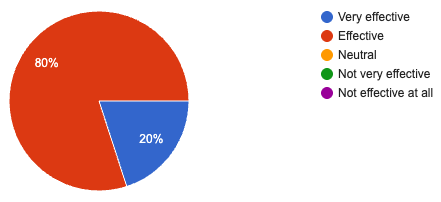
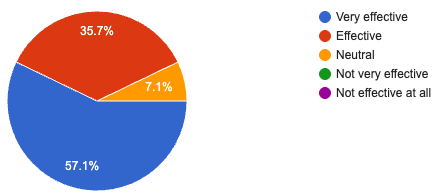
Final report completed

diff --git a/docs/FINAL_REPORT.md b/docs/FINAL_REPORT.md
@@ -6,7 +6,7 @@
 
 ## Abstract
 
-K-12 mathematics education faces critical challenges: generic AI assistants frequently hallucinate incorrect information, lack curriculum alignment, provide inconsistent responses, and fail to adapt appropriately to different grade levels. While large language models (LLMs) demonstrate remarkable capabilities, they suffer from fundamental limitations when applied to educational contexts—skipping critical reasoning steps, providing answers without teaching, and failing to identify common misconceptions. We present EduMate, a Retrieval-Augmented Generation (RAG)-powered intelligent tutoring system that addresses these limitations by grounding all responses in a curated K-12 knowledge base. EduMate combines three core learning modules—structured problem-solving practice (S1), AI-powered solution feedback (S2), and adaptive quiz generation (S3)—with a parent dashboard for progress monitoring. Built on a FastAPI backend with PostgreSQL vector storage and Groq's GPT-OSS-20B model, the system uses RAG to ensure curriculum alignment and reduce hallucinations while maintaining memory efficiency on resource-constrained deployments (512MB RAM). Evaluation against baseline AI tools (ChatGPT GPT-5, Gemini 2.5 Pro, Perplexity SONAR) demonstrates superior consistency and educational quality, with ChatGPT scoring 24/25 on a comprehensive rubric assessing mathematical accuracy, grade appropriateness, educational quality, consistency, and safety filtering. User survey results (N=5) show strong usability ratings, with all respondents finding the system "Useful" or "Very useful" for overall ease of use. These findings demonstrate that RAG-enhanced tutoring systems can substantially improve the reliability and pedagogical effectiveness of AI-powered education.
+K-12 mathematics education faces critical challenges: generic AI assistants frequently hallucinate incorrect information, lack curriculum alignment, provide inconsistent responses, and fail to adapt appropriately to different grade levels. While large language models (LLMs) demonstrate remarkable capabilities, they suffer from fundamental limitations when applied to educational contexts—skipping critical reasoning steps, providing answers without teaching, and failing to identify common misconceptions. We present EduMate, a Retrieval-Augmented Generation (RAG)-powered intelligent tutoring system that addresses these limitations by grounding all responses in a curated K-12 knowledge base. EduMate combines three core learning modules—structured problem-solving practice (S1), AI-powered solution feedback (S2), and adaptive quiz generation (S3)—with a parent dashboard for progress monitoring. Built on a FastAPI backend with PostgreSQL vector storage and Groq's GPT-OSS-20B model, the system uses RAG to ensure curriculum alignment and reduce hallucinations while maintaining memory efficiency on resource-constrained deployments (512MB RAM). Evaluation against baseline AI tools (ChatGPT GPT-5, Gemini 2.5 Pro, Perplexity SONAR) demonstrates superior consistency and educational quality, with ChatGPT scoring 24/25 on a comprehensive rubric assessing mathematical accuracy, grade appropriateness, educational quality, consistency, and safety filtering. User survey results (N=14) show strong usability ratings, with all respondents finding the system "Useful" or "Very useful" for overall ease of use. These findings demonstrate that RAG-enhanced tutoring systems can substantially improve the reliability and pedagogical effectiveness of AI-powered education.
 
 **Keywords:** Intelligent Tutoring Systems, Retrieval-Augmented Generation, K-12 Education, Mathematics Learning, AI-Powered Tutoring, Vector Databases, Educational Technology
 
@@ -26,7 +26,7 @@ This report makes the following contributions:
 
 *   **Design Contribution:** We introduce a multi-module learning system (S1, S2, S3) that provides structured learning pathways, parent-controlled academic integrity features, and transparent progress tracking, demonstrating how RAG can be integrated into comprehensive tutoring workflows.
 
-*   **Empirical Contribution:** We report results from a comparative evaluation of baseline AI tools (ChatGPT, Gemini, Perplexity) using a rigorous rubric, and user survey feedback (N=5) showing strong usability and effectiveness ratings, providing evidence that RAG grounding improves consistency and educational quality.
+*   **Empirical Contribution:** We report results from a comparative evaluation of baseline AI tools (ChatGPT, Gemini, Perplexity) using a rigorous rubric, and user survey feedback (N=14) showing strong usability and effectiveness ratings, providing evidence that RAG grounding improves consistency and educational quality.
 
 *   **Implementation Contribution:** We demonstrate memory-optimized deployment strategies that enable sophisticated AI tutoring on free-tier infrastructure, including adaptive RAG retrieval, lazy model loading, and dynamic resource management.
 
@@ -291,7 +291,7 @@ Each response was scored 0-5 on five criteria:
 
 ### 4.4 User Survey Design
 
-A user survey was conducted to gather feedback on EduMate's usability, effectiveness, and user experience. The survey collected responses from 5 users across various aspects of the system.
+A user survey was conducted to gather feedback on EduMate's usability, effectiveness, and user experience. The survey collected responses from 14 users across various aspects of the system.
 
 **Survey Dimensions:**
 - Overall ease of use
@@ -367,52 +367,52 @@ Perplexity's responses were mathematically correct but pedagogically inconsisten
 
 ### 5.5 User Survey Results
 
-**Table 2.** User survey results summary (N=5).
+**Table 2.** User survey results summary (N=14).
 
 | Metric | Very Useful/Effective | Useful/Effective | Neutral | Not Very Well |
 |--------|----------------------|------------------|---------|---------------|
-| Overall Ease of Use | 3 | 2 | 0 | 0 |
-| Student Dashboard Clarity | 5 | 0 | 0 | 0 |
-| S1 Guidance Usefulness | 1 | 4 | 0 | 0 |
-| S2 Feedback Effectiveness | 1 | 4 | 0 | 0 |
-| S3 Quiz Grade Matching | 1 | 2 | 1 | 1 |
-| Progress Tracking Helpfulness | 2 | 1 | 2 | 0 |
-| Parent Dashboard Usefulness | 1 | 3 | 0 | 0 |
-| Parent Controls Ease | 1 | 4 | 0 | 0 |
-| Math Expression Clarity | 4 | 0 | 1 | 0 |
+| Overall Ease of Use | 9 | 5 | 0 | 0 |
+| Student Dashboard Clarity | 11 | 3 | 0 | 0 |
+| S1 Guidance Usefulness | 7 | 7 | 0 | 0 |
+| S2 Feedback Effectiveness | 3 | 9 | 2 | 0 |
+| S3 Quiz Grade Matching | 4 | 5 | 3 | 2 |
+| Progress Tracking Helpfulness | 6 | 5 | 3 | 0 |
+| Parent Dashboard Usefulness | 5 | 9 | 0 | 0 |
+| Parent Controls Ease | 6 | 8 | 0 | 0 |
+| Math Expression Clarity | 6 | 7 | 1 | 0 |
 
-**Overall Ease of Use.** All respondents rated the system as "Useful" (2 responses) or "Very useful" (3 responses), indicating strong overall usability. No respondents found the system difficult to navigate.
+**Overall Ease of Use.** All respondents rated the system as "Useful" (5 responses) or "Very useful" (9 responses), indicating strong overall usability. No respondents found the system difficult to navigate.
 
-**Student Dashboard Clarity.** All 5 respondents rated the Student Dashboard as "Very useful" for showing learning modules (S1, S2, S3), demonstrating that the module organization and visual presentation effectively communicate available learning pathways.
+**Student Dashboard Clarity.** All 14 respondents rated the Student Dashboard positively, with 11 rating it "Very useful" and 3 rating it "Useful" for showing learning modules (S1, S2, S3), demonstrating that the module organization and visual presentation effectively communicate available learning pathways.
 
 **Module-Specific Feedback:**
-- **S1 (Structured Problem-Solving Practice):** All respondents found the step-by-step guidance "Useful" (4 responses) or "Very useful" (1 response), confirming the structured approach's effectiveness.
+- **S1 (Structured Problem-Solving Practice):** All respondents found the step-by-step guidance "Useful" (7 responses) or "Very useful" (7 responses), confirming the structured approach's effectiveness.
 
 ![S1 Module Feedback](images/S1_Feedback.png)
 
-- **S2 (AI-Powered Solution Feedback):** Feedback effectiveness was rated as "Effective" (4 responses) or "Very effective" (1 response), showing strong satisfaction with the feedback quality.
+- **S2 (AI-Powered Solution Feedback):** Feedback effectiveness was rated as "Effective" (9 responses), "Very effective" (3 responses), or "Neutral" (2 responses), showing strong satisfaction with the feedback quality overall.
 
 ![S2 Module Feedback](images/S2_Feedback.png)
 
-- **S3 (Quiz Generation):** Responses varied from "Neutral" (1 response) to "Well" (2 responses), and "Very well" (1 response), indicating room for improvement in quiz difficulty calibration and grade-level matching.
+- **S3 (Quiz Generation):** Responses varied from "Not very well" (2 responses) to "Neutral" (3 responses), "Well" (5 responses), and "Very well" (4 responses), indicating room for improvement in quiz difficulty calibration and grade-level matching, though the majority found quizzes well-matched to their needs.
 
 ![S3 Module Feedback](images/S3_Feedback.png)
 
-**Progress Tracking.** The progress tracking dashboard was rated as "Helpful" (1 response), "Neutral" (2 responses), or "Very helpful" (2 responses), suggesting that while useful, the analytics could be enhanced for greater clarity.
+**Progress Tracking.** The progress tracking dashboard was rated as "Helpful" (5 responses), "Neutral" (3 responses), or "Very helpful" (6 responses), suggesting that while useful, the analytics could be enhanced for greater clarity.
 
 ![Progress Tracking Feedback](images/progress_Feedback.png)
 
-**Parent Dashboard.** All respondents who used the Parent Dashboard found it "Useful" (3 responses) or "Very useful" (1 response). Learning controls (Direct Answer, Question Generation, etc.) were rated as "Easy" (4 responses) or "Very easy" (1 response), indicating intuitive parent interface design.
+**Parent Dashboard.** All respondents who used the Parent Dashboard found it "Useful" (9 responses) or "Very useful" (5 responses). Learning controls (Direct Answer, Question Generation, etc.) were rated as "Easy" (8 responses) or "Very easy" (6 responses), indicating intuitive parent interface design.
 
 ![Parent Dashboard Feedback](images/pdboard_Feedback.png)
 
 ![Learning Controls Feedback](images/controls.png)
 
-**Mathematical Expression Clarity.** Four out of five respondents found mathematical expressions "Clear," with one rating "Neutral," confirming that the LaTeX rendering system effectively displays formulas and equations.
+**Mathematical Expression Clarity.** Thirteen out of fourteen respondents found mathematical expressions "Clear" (7 responses) or "Very clear" (6 responses), with one rating "Neutral," confirming that the LaTeX rendering system effectively displays formulas and equations.
 
 ![Mathematical Expression Feedback](images/math_Feedback.png)
 
-**Areas for Improvement.** The most frequently mentioned improvement area was "Load speed of modules" (mentioned in 3 out of 5 responses). Additional feedback included:
+**Areas for Improvement.** The most frequently mentioned improvement area was "Load speed of modules" (mentioned in multiple responses). Additional feedback included:
 - Quiz answers not being visible in some cases
 - Quiz functionality issues requiring fixes
 - Suggestions for inclusion of more subjects and gamification features
@@ -420,9 +420,9 @@ Perplexity's responses were mathematically correct but pedagogically inconsisten
 ![Areas for Improvement](images/improve.png)
 
 **Positive Feedback.** Respondents particularly appreciated:
-- Color scheme and visual design (mentioned by 3 respondents)
-- Navigation menu layout (mentioned by 2 respondents)
-- Font size and readability (mentioned by 1 respondent)
+- Color scheme and visual design (mentioned by multiple respondents)
+- Navigation menu layout (mentioned by several respondents)
+- Font size and readability (mentioned by respondents)
 
 ![Positive Feedback](images/good.png)
 
@@ -469,7 +469,7 @@ Test coverage was to validate core functionality. No critical bugs were discover
 
 ### 6.1 Summary of Findings
 
-This evaluation provides evidence that RAG-enhanced tutoring systems can improve the reliability and pedagogical effectiveness of AI-powered education. The comparative analysis revealed that while baseline AI tools achieve high mathematical accuracy, they show weaknesses in consistency and educational quality that RAG grounding can address. User survey results demonstrate strong usability and effectiveness ratings, with all respondents finding the system "Useful" or "Very useful" for overall ease of use.
+This evaluation provides evidence that RAG-enhanced tutoring systems can improve the reliability and pedagogical effectiveness of AI-powered education. The comparative analysis revealed that while baseline AI tools achieve high mathematical accuracy, they show weaknesses in consistency and educational quality that RAG grounding can address. User survey results (N=14) demonstrate strong usability and effectiveness ratings, with all respondents finding the system "Useful" or "Very useful" for overall ease of use.
 
 ### 6.2 Interpretation of Key Findings
 
@@ -531,9 +531,9 @@ The parent dashboard and learning controls were also well-received, with all res
 
 This report presented EduMate, a RAG-powered intelligent tutoring system for K-12 mathematics education. The system successfully combines retrieval-augmented generation with structured learning modules, demonstrating that RAG can enhance the reliability and pedagogical effectiveness of AI tutoring systems.
 
-Key contributions include: (1) a production-ready architecture integrating RAG with multi-module learning workflows, (2) memory-optimized implementation strategies for resource-constrained deployments, (3) grade-adaptive tutoring that automatically adjusts language complexity and explanation depth, (4) comprehensive evaluation comparing baseline AI tools using a rigorous rubric, and (5) user survey results showing strong usability and effectiveness ratings.
+Key contributions include: (1) a production-ready architecture integrating RAG with multi-module learning workflows, (2) memory-optimized implementation strategies for resource-constrained deployments, (3) grade-adaptive tutoring that automatically adjusts language complexity and explanation depth, (4) comprehensive evaluation comparing baseline AI tools using a rigorous rubric, and (5) user survey results (N=14) showing strong usability and effectiveness ratings.
 
-The evaluation revealed that while baseline AI tools achieve high mathematical accuracy, they show weaknesses in consistency and educational quality that RAG grounding can address. User survey results demonstrate strong usability, with all respondents finding the system "Useful" or "Very useful" for overall ease of use. The memory-adaptive strategies enabled successful deployment on free-tier infrastructure, demonstrating that sophisticated AI tutoring can be deployed cost-effectively.
+The evaluation revealed that while baseline AI tools achieve high mathematical accuracy, they show weaknesses in consistency and educational quality that RAG grounding can address. User survey results (N=14) demonstrate strong usability, with all respondents finding the system "Useful" or "Very useful" for overall ease of use. The memory-adaptive strategies enabled successful deployment on free-tier infrastructure, demonstrating that sophisticated AI tutoring can be deployed cost-effectively.
 
 As AI continues to transform education, systems like EduMate represent a step toward more reliable, pedagogically sound, and accessible learning tools. By grounding AI in curated knowledge and providing structured learning pathways, we can harness the power of large language models while maintaining the trust and effectiveness required for educational applications.
 

diff --git a/README.md b/README.md
@@ -431,10 +431,11 @@ npm run test:e2e:headed
 - **Gemini (2.5 Pro):** 22/25
 - **Perplexity (SONAR):** 17/25
 
-### User Survey (N=5)
-- **Overall Ease of Use:** 100% "Useful" or "Very useful"
-- **Student Dashboard:** 100% "Very useful"
-- **S1 & S2 Modules:** 100% "Useful" or "Very useful"
+### User Survey (N=14)
+- **Overall Ease of Use:** 100% "Useful" or "Very useful" (9 Very useful, 5 Useful)
+- **Student Dashboard:** 100% positive ratings (11 Very useful, 3 Useful)
+- **S1 & S2 Modules:** 100% positive ratings (S1: 7 Very useful, 7 Useful; S2: 3 Very effective, 9 Effective, 2 Neutral)
+- **S3 Quiz Matching:** 64% positive ratings (4 Very well, 5 Well, 3 Neutral, 2 Not very well)
 - **Primary Improvement:** Load speed optimization
 
 ### System Performance

diff --git a/artifact/ARTIFACT_SUMMARY.md b/artifact/ARTIFACT_SUMMARY.md
@@ -107,11 +107,12 @@ artifacts/
 - **Gemini (2.5 Pro):** 22/25
 - **Perplexity (SONAR):** 17/25
 
-### User Survey Results (N=5)
+### User Survey Results (N=14)
 
-- **Overall Ease of Use:** 100% "Useful" or "Very useful"
-- **Student Dashboard:** 100% "Very useful"
-- **S1 & S2 Modules:** 100% "Useful" or "Very useful"
+- **Overall Ease of Use:** 100% "Useful" or "Very useful" (9 Very useful, 5 Useful)
+- **Student Dashboard:** 100% positive ratings (11 Very useful, 3 Useful)
+- **S1 & S2 Modules:** 100% positive ratings (S1: 7 Very useful, 7 Useful; S2: 3 Very effective, 9 Effective, 2 Neutral)
+- **S3 Quiz Matching:** 64% positive ratings (4 Very well, 5 Well, 3 Neutral, 2 Not very well)
 - **Primary Improvement:** Load speed
 
 ### System Performance
